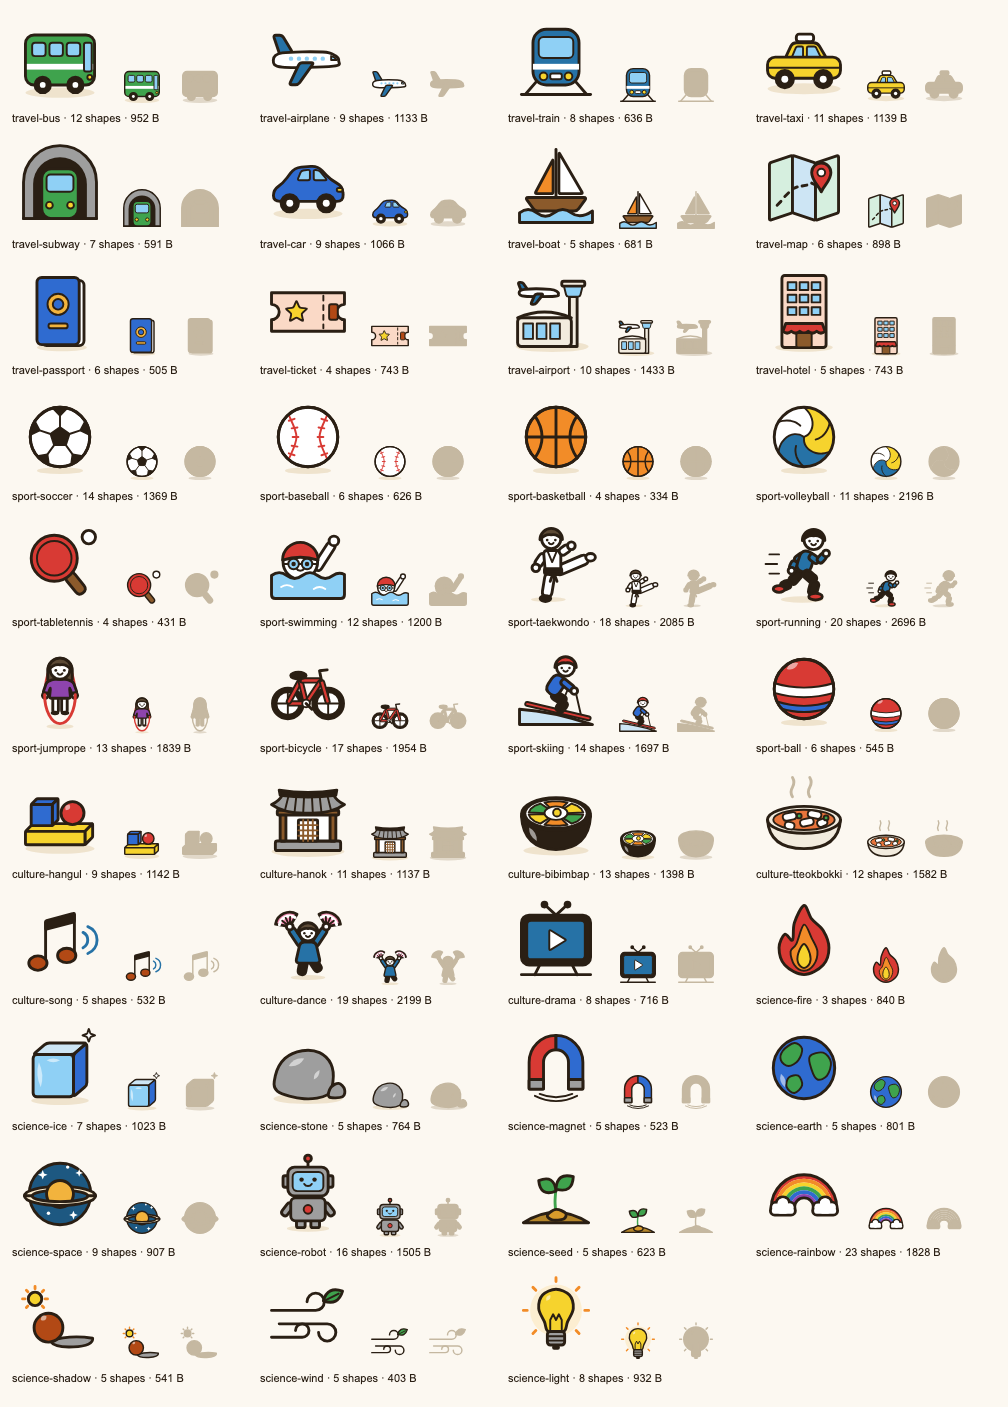
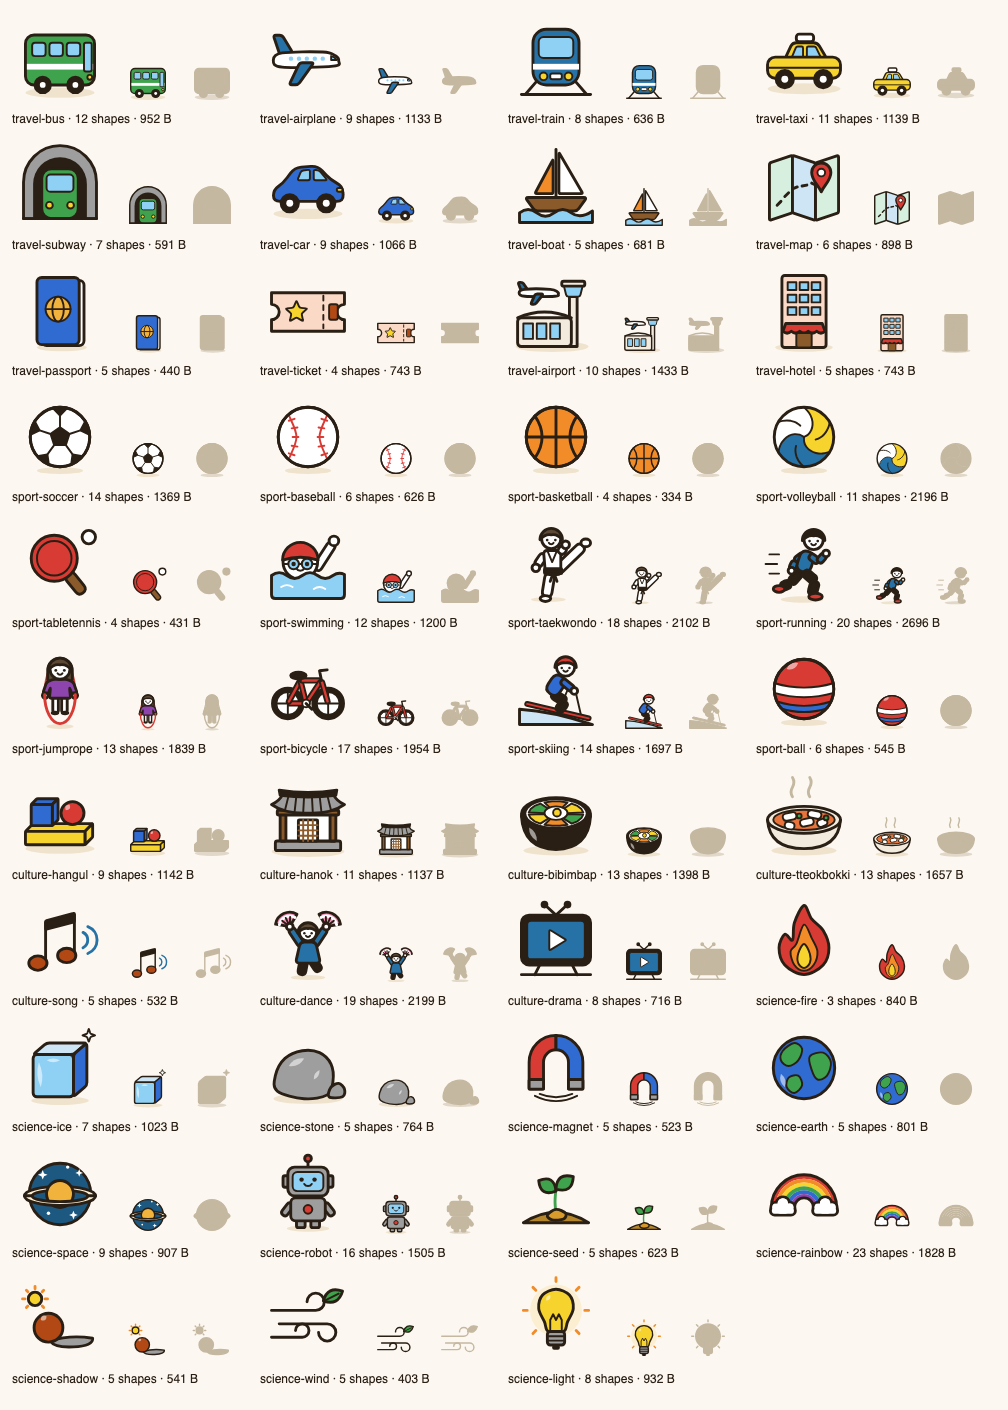
docs(design): W-6 record for the follow-up fixes and the overlap check, sheet re-rendered, one shared W7 decision paragraph (F-VOC-002 W-6)

diff --git a/docs/specs/F-VOC-002-wordart-svg-system.md b/docs/specs/F-VOC-002-wordart-svg-system.md
@@ -381,8 +381,8 @@ Estimated effort: system PR about 3 days; art batches about 20 hours of authorin
 1. **The prototype is not in the repo.** Its numbers (914 B per glyph expanded, 600 B source, 4.7 KB gzip for the core with generators) are measured on 25 + 19 glyphs; the 99-glyph extrapolation (about 85 KB raw, 20 KB gzip) has not been built. The budget test (W7) is the guard.
    **Measured at W-1c:** all WordArt source is 69.2 KB raw and 21.3 KB gzipped, of which the 10 hand glyphs are 13.3 KB raw and 3.4 KB gzipped (about 1.0-1.3 KB raw and 0.35 KB gzipped per glyph, against the 600 B estimate) and the core with the four generators is about 56 KB raw. Extrapolated to 99 hand glyphs that is about 155-185 KB raw and 45-50 KB gzipped, **past W7**. The plan, in order: (a) W-3 reports its measured per-glyph cost and draws with denser data (builders for repeated parts, fewer points per outline), and shared helpers move into the builders rather than being repeated per glyph; (b) if the projection after W-3 is still past W7, the owner decides before W-4 between raising W7 to the measured numbers and measuring it per lazily loaded topic chunk (the split of §3.8), which changes `budget.test.ts` but not the data model. Since W-7 the registry is evaluated at app start: the component and `WORD_ART_KEYS` are in the package root again (§3.7; Metro cannot resolve the subpath), and `PictureArt`, which every picture game imports, is in the startup bundle. The registry's start-up cost (parse and build time on a low-end phone) and its compatibility cost (any built-in the oldest supported browsers lack throws at bundle load and the whole app never opens; the review follow-up to #320 replaced `Object.hasOwn`, Safari 15.4+, and `packages/design-system/src/__tests__/legacy-safari.test.ts` now scans for such built-ins) are part of the per-chunk decision above.
    **Measured at W-3:** all WordArt source went from 72,781 B raw / 22,326 B gzip to 81,192 B / 24,826 B (+8,411 B raw, +2,500 B gzip) for 11 new hand glyphs plus 24 generated registrations, about 0.76 KB raw and 0.23 KB gzipped per hand glyph including its registry line (down from 1.0-1.3 KB / 0.35 KB at W-1c, through `pts` and shared helpers). Projected for the remaining 78 hand glyphs (W-4..W-6): about 140 KB raw and 43 KB gzipped, **still past W7 (120 / 30 KB)**. `budget.test.ts` passes at W-3. **W-4 is blocked on the owner's decision under (b)**: raise W7 to the measured numbers, or measure it per lazily loaded topic chunk. The next batch does not start until that decision is recorded here.
-   **Decision under (b), 2026-10-12** (recorded under the owner's production-level delegation of 2026-10-11, which replaces the owner's per-batch gates with multi-agent review; the owner can overrule it in review): **raise W7 to 160 KB raw and 48 KB gzipped**, the measured projection plus room for the 13 card-art exits of §3.11, in the first batch that needs it, and keep measuring all of `src/word-art/**` as one total. Why not the per-topic lazy split now: since W-7 the registry is evaluated at app start through `PictureArt`, so a split needs an asynchronous `PictureArt` and a loading state in every picture game, a change of architecture beyond the art batches, while the added source is about 3 % of the 2.0 MB bundle before minification. The split stays the exit if a start-up measurement on a low-end phone calls for it.
-   **Measured at W-6 (on main without W-4, W-5):** 81,296 B raw / 24,851 B gzip went to 112,943 B / 33,946 B (+31,647 B raw, +9,095 B gzip) for 41 hand glyphs and the shared `glyphs/pose.ts` (posed people): about 0.77 KB raw and 0.22 KB gzipped per glyph. With W-4 and W-5 the whole set is about 136 KB raw and 41 KB gzipped, within the raised W7.
+   **Decision under (b), 2026-10-12** (recorded under the owner's production-level delegation of 2026-10-11, which replaces the owner's per-batch gates with multi-agent review; the owner can overrule it in review): **raise W7 to 160 KB raw and 48 KB gzipped**, the measured projection plus room for the 13 card-art exits of §3.11, in the first batch that needs it, and keep measuring all of `src/word-art/**` as one total. Why not the per-topic lazy split now: since W-7 the registry is evaluated at app start through `PictureArt`, so a split needs an asynchronous `PictureArt` and a loading state in every picture game, a change of architecture beyond the art batches, while the added source is about 3 % of the 2.0 MB bundle before minification. The split stays the exit if a start-up measurement on a low-end phone calls for it. **Follow-up before F-VOC-003 C-7 turns `vocabTopicsEnabled` on:** time a cold start of the Hermes bundle on the low-end reference phone with and without the registry (or measure the build time of `WORD_ART`), and record it here and under open item 3; the registry is imported eagerly, so its cost is paid at every app start even while the flag is off.
+   **Measured at W-6 (on main without W-4, W-5):** 81,296 B raw / 24,851 B gzip went to 113,097 B / 34,041 B (+31,801 B raw, +9,190 B gzip) for 41 hand glyphs and the shared `glyphs/pose.ts` (posed people): about 0.78 KB raw and 0.22 KB gzipped per glyph. With W-4 and W-5 the whole set is about 136 KB raw and 41 KB gzipped, within the raised W7.
 2. **The candidate hex values** of `colors.vocab` are the prototype's, not a design decision; the colour-vision numbers (§3.4) were computed with a simple Machado simulation and CIEDE2000 on those values, not with a calibrated device test.
 3. **react-native-svg draw time and memory** for 12-48 glyphs on a low-end phone is unmeasured; the shape limits (32/48) and memoisation are the mitigations.
 4. **Card art at 64 px** (13 words) is unverified, as F-QUEST-002 §9.4 already notes; the exit in §3.11 is the fallback.

diff --git a/design/components/WordArt/spec.md b/design/components/WordArt/spec.md
@@ -78,14 +78,16 @@ Review sheet: `w6-review.png` in this folder (96 px, 48 px, silhouette), all 43 
 
 - Recognisable at 48 px. In silhouette the vehicles, buildings, people and objects each have their own outline. The balls (football, baseball, basketball, volleyball, playground ball) are discs in silhouette, like the W-1b football; their seams and panels tell them apart in colour, and no two share markings. The playground ball is red with paper and blue stripes, and the volleyball has three swirling panels in yellow, blue and white.
 - Every face smiles through `face()`: the people, and the robot's screen face.
-- Tokens only. At most 4 fill tones, except `science-rainbow`: its six arc colours plus the white of its two clouds make 7, so it has `maxTones: 7` with a reason. The spec's "6" did not count the clouds, and §3.3 is amended. No text, digits or emoji: the passport emblem is a ring and a bar, the ticket carries a star, the TV a play triangle, the map a dotted route and a pin.
+- Tokens only. At most 4 fill tones, except `science-rainbow`: its six arc colours plus the white of its two clouds make 7, so it has `maxTones: 7` with a reason. The spec's "6" did not count the clouds, and §3.3 is amended. No text, digits or emoji: the passport emblem is a globe (a disc with one meridian and the equator), the ticket carries a star, the TV a play triangle, the map a dotted route and a pin.
 - **K-Culture, against the heritage accuracy bar**:
   - `culture-hanok`: a giwa tile roof whose eaves lift at both ends (the curved cheoma line), a dark ridge (yongmaru), tile rows down the slope, a wooden frame with white walls, a lattice door (changhoji) and a stone base (gidan).
   - `culture-bibimbap`: a dark stone bowl (dolsot) seen from a little above, with namul in wedges round a fried egg (spinach green, carrot orange, bean-sprout yellow). There is no gochujang, which would be a fifth tone; the egg and the toppings in wedges are the recognisable cue.
-  - `culture-tteokbokki`: short white cylinders of garae-tteok in a red-orange sauce, with spring onion and steam. It is told apart from `food-tteok` (white slices on a plate) by the sauce.
+  - `culture-tteokbokki`: short white cylinders of garae-tteok in a red-orange sauce, with spring onion and steam, in a bowl on a ground shadow like the other bowls (C6). It is told apart from `food-tteok` (white slices on a plate) by the sauce; since it still shows tteok, the two words are an excluded pair (below).
   - `culture-hangul`: three solid toy blocks (a bar, a cube, a ball) in three of the five traditional colours (obangsaek: yellow, blue, red). They allude to the shape-based design of Hangul without drawing a letter; every shape is a solid, never a stroke, so none reads as ㅇ, ㅁ or ㅡ.
   - `culture-dance`: a figure with raised arms and an open folding fan in each hand, as in the fan dance (buchaechum), with no costume beyond the brief (C12).
   - `culture-song` (beamed eighth notes and sound arcs) and `culture-drama` (a TV with a play triangle) are culture-neutral by design.
-- Sport accuracy: the taekwondo figure wears a white dobok with a V collar and a black belt tied at the front, and makes a high side kick. The baseball has two red stitched seams.
+- Sport accuracy: the taekwondo figure wears a white dobok with a V collar and a black belt tied at the front, and makes a high side kick (eolgul height: the kicking foot is level with the head, the near fist up in guard). Both feet are bare paper feet, as taekwondo is practised barefoot. The baseball has two red stitched seams.
+- Overlap in meaning (a picture that is a right answer for another word), checked for every key: the taxi is a car, the subway is a train seen from the front, the airport has a plane, the shadow shows a ball and the sun, space has stars, the rainbow stands on clouds, and tteokbokki shows tteok. Each pair (`jadongcha`/`taeksi`, `gicha`/`jihacheol`, `bihaenggi`/`gonghang`, `geurimja`/`gong-ball`, `geurimja`/`hae-sun`, `byeol`/`uju`, `gureum`/`mujigae`, `tteok`/`tteokbokki`) is in `VOCAB_EXCLUDED_PAIRS` (`apps/mobile/src/logic/vocab/excluded-pairs.ts`, F-VOC-004 §3.3 rule 1), so the builder never shows the two in one question. Not paired, because the second thing is not the subject a learner would name: the egg on the bibimbap, the planet in space against the earth, the bulb's rays against the sun.
+- Fixes made in the review follow-up: the first passport emblem, a ring over a bar, read as the syllable 으 (C10, W6) and is now a globe; the taekwondo kick was at body height and is now at head height, with the standing foot bare like the kicking one; `culture-tteokbokki` had no ground shadow (C6) and now has one.
 - Fixes made during review: the map pin was upside down. The volleyball's first panels read as a pie chart and were redrawn as swirls. Eight glyphs were past C2, mostly where a curve's control points overshot (the car's body is now a rounded polygon), and were brought in. A crack on the stone was replaced by a highlight.
 
